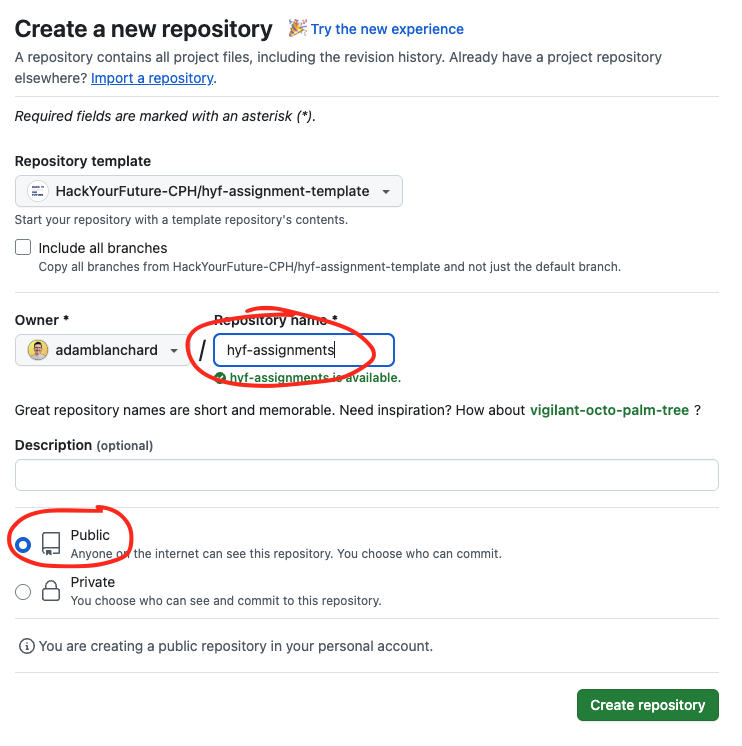
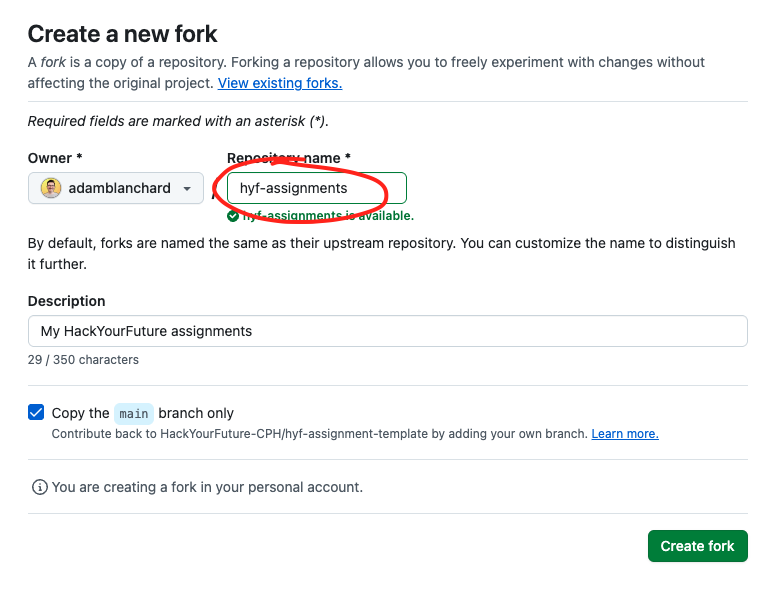
Updated assignment instructions to fork rather than use template

Changed region(s): [[0.0, 0.0297, 0.9609, 0.6238], [0.0, 0.6535, 0.8369, 0.8911], [0.7749, 0.8614, 0.9919, 0.9802]]

diff --git a/README.md b/README.md
@@ -3,15 +3,15 @@
 > Need any help with git? Feel free to reach out on [#git-support](https://hackyourfuture-cph.slack.com/archives/CU1K85X3R)
 
 ## About this repo
-This is a template repo that, as a trainee, you can copy to your own github and then submit your weekly assignments to.
+This is a template repo that, as a trainee, you can fork to your own GitHub account, so you can submit your assignments.
 
 ## Trainee instructions
 ### Set up
 If this is your first time using this repo, follow these steps:
 
-1. Scroll to the top of this repo, and click "Use this template":
+1. Scroll to the top of this repo, and click "Fork" and "Create a new fork":
 
-    ![Use Template](./assets/use-template.png)
+    ![Fork](./assets/create-fork.png)
 
 1. Follow the instructions to create a new repository under your own account, as shown below:
 
@@ -20,6 +20,11 @@ If this is your first time using this repo, follow these steps:
 1. After the repo has been created, clone it locally as you would with any repo (see ["Cloning a respository"](https://docs.github.com/en/repositories/creating-and-managing-repositories/cloning-a-repository) for help):
   
     ![Clone](./assets/clone.png)
+
+### Updating with the latest changes
+Sometimes we make changes to the assignments. If you have already forked this repo, you won't get these changes automatically. If you find that something is missing, or out of date, you can use the "Sync fork" feature on GitHub to pull in the latest changes to your own assignment repo.
+
+    ![Sync Fork](./assets/sync-fork.png)
 
 ### Completing the assignments
 > [!TIP]
@@ -40,7 +45,7 @@ Now you're ready to complete your assignment. Remember to commit often, with use
 
 #### 2. Submission process
 1. When you're ready to submit, make sure you're in your local repo and on the correct branch.
-2. Push to your remote and create a PR on GitHub **by Wednesday end of day** (unless otherwise agreed).
+2. Push to your remote and create a PR on GitHub **by Wednesday end of day** (unless otherwise agreed). Make sure you are creating a PR against your own repo, and not the HackYourFuture-CPH one.
 3. Find the "Assignment Submission" Google Sheet (bookmarked in your team's slack channel) and follow the instructions there. It will look something like this:
    
     ![Submission Sheet](./assets/submission-sheet.png)
